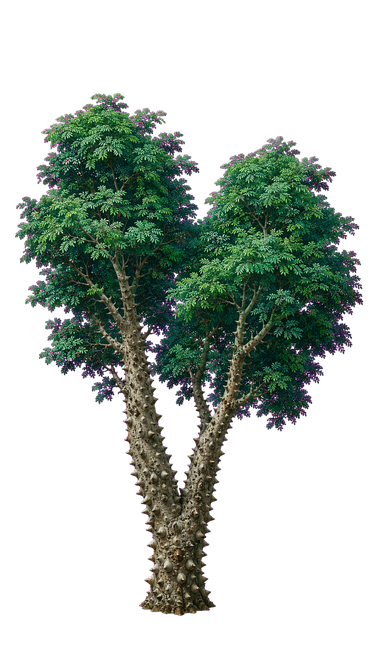
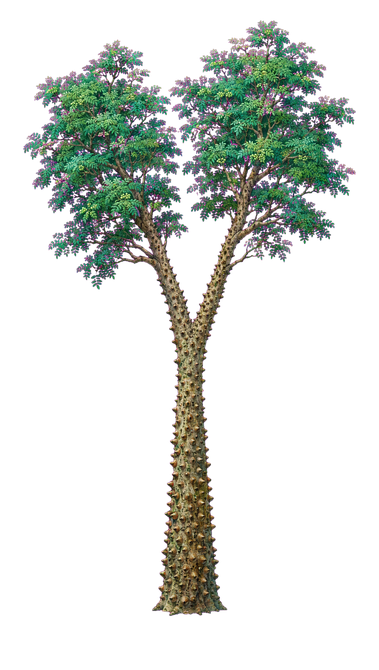
six of the eight crown variants are repainted, and the stopgap is down to two
Art re-measured the delivered cells against the tree each variant replaces and repainted into tolerance:
**whitepair +1.4%, stinkwood -0.2%, knobwood +3.8%**, and **wildpeach improved from -24.8% to -8.7%.**

**THE CORRECTION TABLE CAME OUT IN THE SAME COMMIT THAT INSTALLED THE REPAINTS**, because a correction
table that outlives its defect is a lie about what the art is. `_VFIX` is down from eight entries to two.

**AND ART CORRECTED MY BRIEF, WHICH IS WORTH RECORDING: I wrote that a height ratio "would have caught all
eight". It catches five.** Yellowwood (-1.8%), outeniqua (0.0%) and chestnut (+4.8%) were already inside
tolerance, so the job was five repaints rather than eight. **A brief that overstates its own case is still
wrong even when the finding behind it is right.**

**AND THE REAL CAUSE WAS THE CLAUSES THEMSELVES.** They asked for *"a slightly smaller tree"*, *"a lower
first branch"*, *"shelves that start lower"*, *"forked low"* -- **all eight widths came back within 2.5% of
their siblings, so the model was obeying precisely and the height was the thing it gave up.** The rewritten
clauses express the difference in things that cost no height: asymmetry, limb count and angle, where the
fruit sits, a dead limb high in the canopy, bark.

**TWO ARE LEFT AND THEY ARE A RULING, NOT A FIX.** wildpeach at -8.7% and ironwood at -9.3% are both inside
half of what the table was built to hide, and **art measured the limit: four rolls of wildpeach came back at
[…]

diff --git a/mistbelt/index.html b/mistbelt/index.html
@@ -8639,8 +8639,18 @@ var SPR = (function () {
          matching height and it is briefed; **this is how a painting error gets corrected today rather
          than next round.** */
       if (st === 'mature' && seed !== undefined) {
-        var _VFIX = { wildpeach: 1.325, whitepair: 1.195, stinkwood: 1.110, ironwood: 1.103,
-                      knobwood: 1.098, yellowwood: 1.021, chestnut: 0.955, outeniqua: 1.0 };
+        /* SIX OF THE EIGHT ARE REPAINTED AND NO LONGER NEED THIS. Art re-measured the delivered cells and
+           repainted whitepair (+1.4%), stinkwood (-0.2%) and knobwood (+3.8%) into tolerance, and
+           wildpeach improved from -24.8% to -8.7%. **The entries for those six came out in the same commit
+           that installed the repaints**, because a correction table that outlives its defect is a lie about
+           what the art is.
+           **TWO ARE LEFT AND THEY ARE AWAITING A RULING, NOT A FIX.** wildpeach at -8.7% and ironwood at
+           -9.3% are both inside half of what the table was built to hide, and both are stocky species
+           whose proportions the generator will not hold on request -- art measured four rolls of wildpeach
+           at aspect 0.553 / 0.735 / 0.571 / 1.180 against a target of 0.671. **The instruction moves the
+           mean and does not set the value.** See RULINGS-NEEDED-2026-10-07.html item 5: either the
+           tolerance for these two is +/-10%, or they keep the stretch and this comment says why. */
+        var _VFIX = { wildpeach: 1.095, ironwood: 1.103 };
         if ((seed * 7919 + 13) % 100 < 45 &&
             prop(sp + '_mature_b', cx, base, s, st, _VFIX[sp] || 1)) return;
       }
